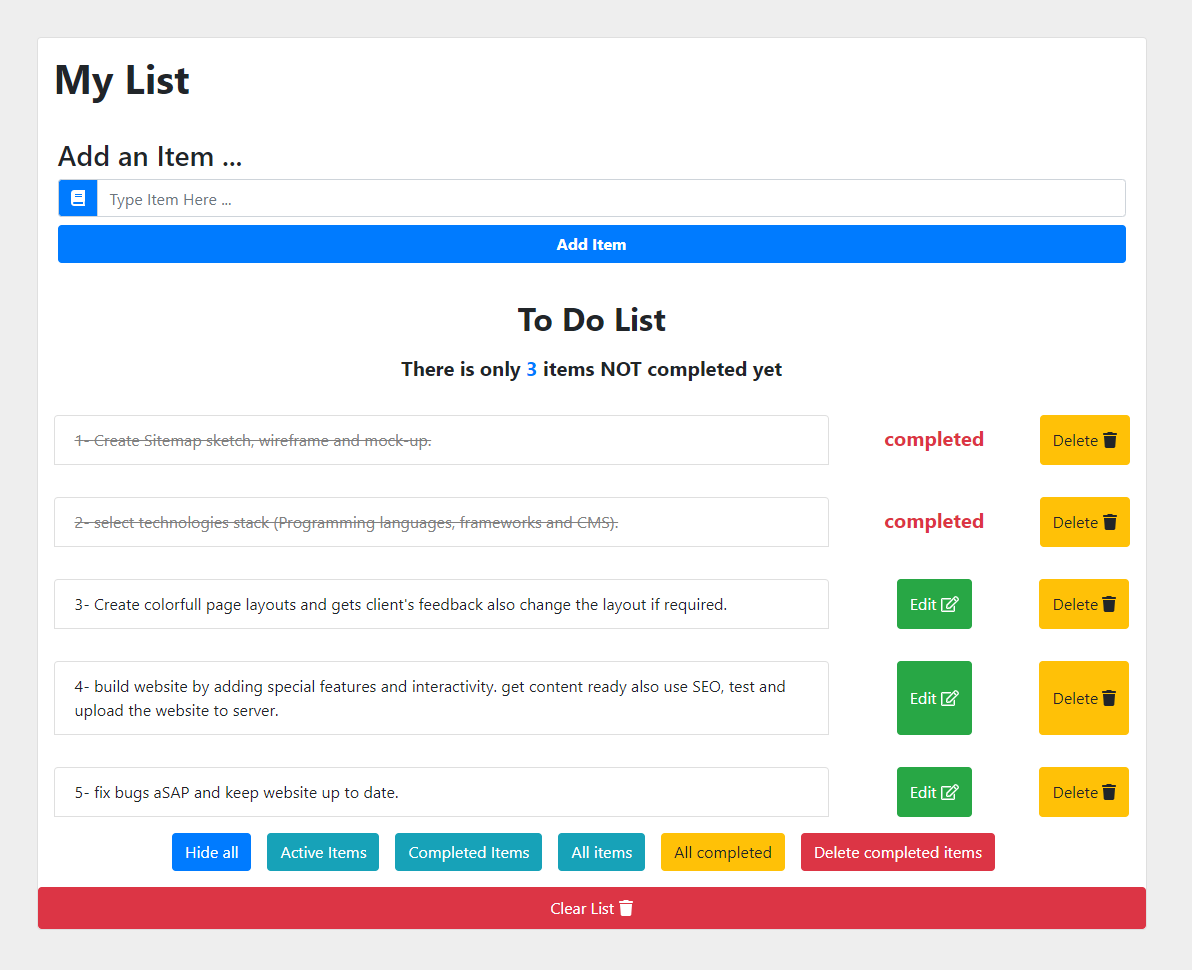
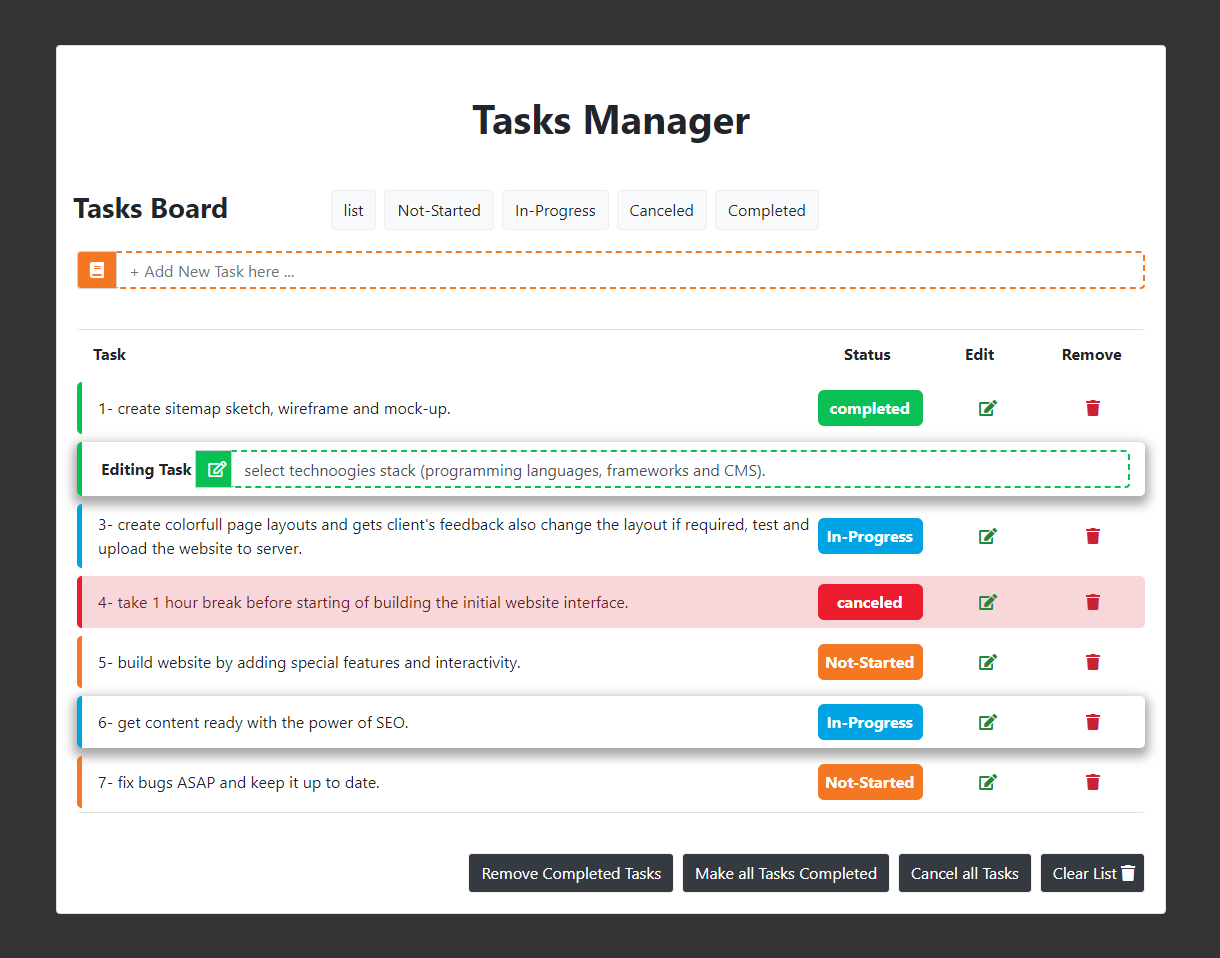
modifying tasks manager project

diff --git a/index.html b/index.html
@@ -377,7 +377,8 @@
                             <div class='card-body'>
                                 <h5 class='card-title'>Weather App</h5>
                                 <p class='card-text'>
-                                    Weather application, that gets user location, and fetches the current weather from an openweathermap API, with an intuitive interface and elegant design by using weather-icons package, Deployed using Github Pages.<br><br>
+                                    Weather application, brings data from openweathermap API and displays
+                                    the weather where you are currently at, with an intuitive interface and elegant design by using weather-icons package, Deployed using Github Pages.<br><br>
                                     <strong>REACT - SASS - BOOTSTRAP</strong>
                                 </p>
                                 <a href="https://github.com/Ahmad-Sawalqeh/weatherApp" target="_blank" class="btn btn-primary"><i class="fab fa-github"></i>&nbsp;source</a>
@@ -474,13 +475,13 @@
                         <div class='card'>
                             <img src='images/p12.png' class='card-img-top' alt='Task List App Project' >
                             <div class='card-body'>
-                                <h5 class='card-title'>Task List App</h5>
+                                <h5 class='card-title'>Task Manager App</h5>
                                 <p class='card-text'>
-                                    A task list application, where the user has the ability to Add/Edit/Delete and more, Deployed using Github Pages.<br><br><br><br>
+                                    A task manager application, where the user has the ability to Add/Edit/Delete and more, created to gain expereince with Class and function components also dealing with modules with power of Redux package, Deployed using Github Pages.<br><br>
                                     <strong>REACT - REDUX - FONT AWESOME - BOOTSTRAP</strong>
                                 </p>
-                                <a href="https://github.com/Ahmad-Sawalqeh/simple-to-do" target="_blank" class="btn btn-primary"><i class="fab fa-github"></i>&nbsp;source</a>
-                                <a href="https://ahmad-sawalqeh.github.io/simple-to-do/" target="_blank" class="btn btn-primary"><i class="fas fa-link"></i>&nbsp;visit</a>
+                                <a href="https://github.com/Ahmad-Sawalqeh/tasks-manager" target="_blank" class="btn btn-primary"><i class="fab fa-github"></i>&nbsp;source</a>
+                                <a href="https://ahmad-sawalqeh.github.io/tasks-manager/" target="_blank" class="btn btn-primary"><i class="fas fa-link"></i>&nbsp;visit</a>
                                 <!-- <img class="netlify-icon" src="https://miro.medium.com/max/1600/1*70aOJ1osE9C8cVZUkmH95g.png"> -->
                             </div>
                         </div>
